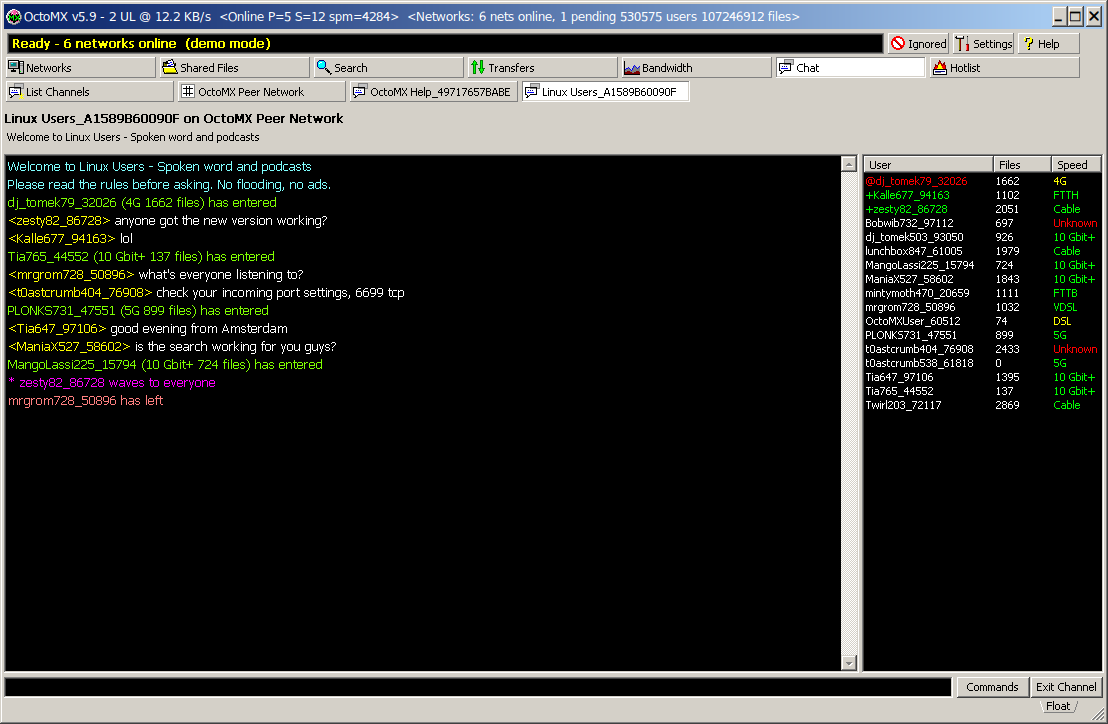
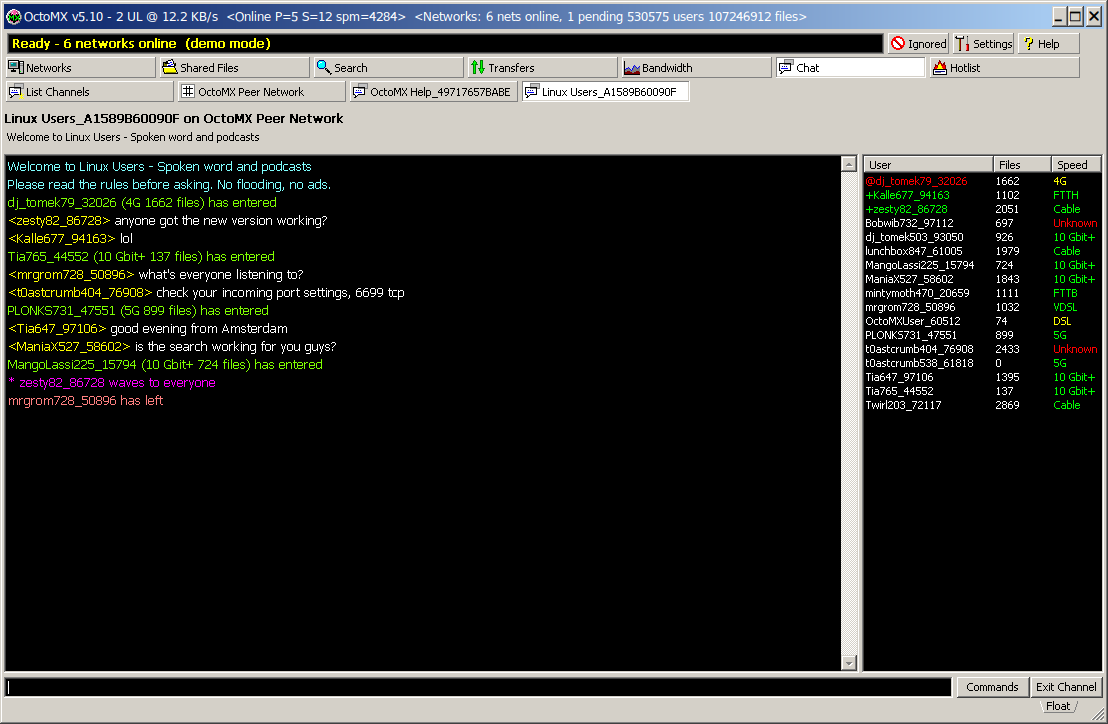
OctoMX 5.10: version and README pictures

Changed region(s): [[0.0614, 0.0, 0.7365, 0.0304]]

diff --git a/src/ui/update_ui.h b/src/ui/update_ui.h
@@ -7,9 +7,9 @@
 // at most once a day unless updates/mode is "off", stays quiet unless a newer version that was not
 // skipped exists, and logs one line otherwise. What a newer release does depends on updates/mode:
 //   auto   (default) download it quietly, check the signature, unpack and check it next to the
-//          program, then the box "OctoMX 5.10 is ready to install" with Restart Now / Later / Skip
+//          program, then the box "OctoMX 5.11 is ready to install" with Restart Now / Later / Skip
 //          This Version (Later: installed when OctoMX is closed, a tray balloon says so once)
-//   ask    the box "OctoMX 5.10 is available" with Update Now (progress bar, then the same restart
+//   ask    the box "OctoMX 5.11 is available" with Update Now (progress bar, then the same restart
 //          question) / Remind Me Later / Skip This Version and the download page as a link
 //   notify the classic message box: Open Download Page / Remind Me Later / Skip This Version
 //   off    no check at start; Help ▸ Check for Updates... still asks
@@ -19,7 +19,7 @@
 // The install itself runs when OctoMX closes (finishOnExit(), called by main.cpp after the core has
 // shut down); after Restart Now the new version is started with the same options. At the next start
 // startupRecovery() finishes or undoes an interrupted swap and removes the old files; the first
-// start after an update shows "Updated to OctoMX 5.10" with a What's New link.
+// start after an update shows "Updated to OctoMX 5.11" with a What's New link.
 //
 // Network policy (tests and scripted runs never contact GitHub): the app sets On for a real core with
 // a user profile, IfUrlSet for a test or scripted run (MX_OS_ROOT is set), Off for
@@ -63,8 +63,8 @@ public:
     enum class State { Idle, Checking, Downloading, Preparing, Ready };
     struct Offer {
         Kind kind = Kind::Notify;
-        QString version;   // "5.10"
-        QString current;   // "5.9"
+        QString version;   // "5.11"
+        QString current;   // "5.10"
         QString notes;     // plain text excerpt
         QString pageUrl;   // what Open Download Page / What's New opens
         QString reason;    // why there is no automatic install (Notify), empty otherwise
@@ -88,11 +88,11 @@ public:
     bool startCheckDue() const;
     void scheduleStartCheck(int delayMs = -1);
     bool isChecking() const;
-    QString currentVersion() const;   // MX_VERSION_FULL, e.g. "5.9.0"
+    QString currentVersion() const;   // MX_VERSION_FULL, e.g. "5.10.0"
     QString mode() const;             // updates/mode: auto | ask | notify | off
     State state() const { return m_state; }
     QString readyVersion() const;     // the prepared update (State::Ready)
-    // one line for the About box: "OctoMX 5.9 is up to date" / "OctoMX 5.10 is available" / ...
+    // one line for the About box: "OctoMX 5.10 is up to date" / "OctoMX 5.11 is available" / ...
     QString statusLine() const;
 
     // show what a check with this answer would show (manual = the answers of Help ▸ Check for

diff --git a/src/ui/dialogs/about_dialog.cpp b/src/ui/dialogs/about_dialog.cpp
@@ -46,7 +46,7 @@ AboutDialog::AboutDialog(mx::Core *core, QWidget *parent) : QDialog(parent)
                            core->isMock() ? tr("\nDemo mode: no network connections are made.") : QString()));
     info->setObjectName(QStringLiteral("aboutText"));
     info->setGeometry(SR(56, 30, 450, 106));
-    // [upd-1] what the update check found, right of the title: "OctoMX 5.9 is up to date." / "... 5.10 is available ..."
+    // [upd-1] what the update check found, right of the title: "OctoMX 5.10 is up to date." / "... 5.11 is available ..."
     if (UpdateController *u = UpdateController::of(qobject_cast<MainWindow *>(parent))) {
         auto *upd = new QLabel(u->statusLine(), this);
         upd->setObjectName(QStringLiteral("aboutUpdateStatus"));

diff --git a/src/api/mx/types.h b/src/api/mx/types.h
@@ -16,10 +16,10 @@
 // [post-1] defined by the top-level CMakeLists.txt from project(OctoMX VERSION ...); these
 // fallbacks only serve a build without it
 #ifndef MX_VERSION_FULL
-#define MX_VERSION_FULL "5.9.0"
+#define MX_VERSION_FULL "5.10.0"
 #endif
 #ifndef MX_VERSION_STRING
-#define MX_VERSION_STRING "5.9"
+#define MX_VERSION_STRING "5.10"
 #endif
 
 namespace mx {

diff --git a/docs/UI_SPEC.md b/docs/UI_SPEC.md
@@ -1490,7 +1490,7 @@ Fidelity checks must treat these as intentional (the classic forms stay reachabl
   "Load Standard ... Defaults" buttons choose the theme and reset every colour.
 * **Help button** [post-1]: a click pops a small menu `About OctoMX...` (bold default) / `Check for
   Updates...` (F1 still opens About directly); the About box has `Check for Updates...` left of OK.
-  The update box is a classic message box titled `OctoMX`: "OctoMX 5.10 is available (you have 5.9)."
+  The update box is a classic message box titled `OctoMX`: "OctoMX 5.11 is available (you have 5.10)."
   with the first lines of the release notes as plain text and `Open Download Page` / `Remind Me Later`
   / `Skip This Version`. Settings ▸ Miscellaneous ▸ System Integration has an `Updates` group with
   "Check for a new version at start (at most once a day)" (updates/checkAtStart, default on).
@@ -1502,19 +1502,19 @@ Fidelity checks must treat these as intentional (the classic forms stay reachabl
   downloading a new version` (ask) / `Only tell me, I install it myself` (notify, the classic box) / `Do
   not check at start` (off). A profile with the earlier check box off gets `off` (migrated once).
   auto: the start check downloads a newer signed release quietly, then a small box titled `OctoMX`
-  (information icon, plain text) says "OctoMX 5.10 is ready to install (you have 5.9)." with the
+  (information icon, plain text) says "OctoMX 5.11 is ready to install (you have 5.10)." with the
   first lines of the release notes, "The download was checked against the OctoMX release
   signature.", with running downloads "Your 3 running downloads continue after the restart.", and
   `Restart Now` (default) / `Later` / `Skip This Version`; Later (also Escape or the close button)
   installs it when OctoMX is closed and a tray balloon says so once. ask, and always for Help ▸ Check
-  for Updates...: "OctoMX 5.10 is available (you have 5.9)." with `Update Now` (a box with a progress
+  for Updates...: "OctoMX 5.11 is available (you have 5.10)." with `Update Now` (a box with a progress
   bar, `Hide` / `Cancel`, then the ready box) / `Remind Me Later` / `Skip This Version` and `Open
   Download Page` as a link below the text. When the program cannot install a release itself (not a
   published package, a folder it cannot write, a release without signature, a download or check that
   failed), the classic box appears with the reason above the last line. The first start after an update
-  shows "Updated to OctoMX 5.10 (from 5.9)." with `What's New` (the release page) / `OK`. The About
-  box has one line under the description: "OctoMX 5.9 is up to date." / "OctoMX 5.10 is available
-  (you have 5.9)." / "... is ready to install ..." / "..., not checked for updates yet.".
+  shows "Updated to OctoMX 5.11 (from 5.10)." with `What's New` (the release page) / `OK`. The About
+  box has one line under the description: "OctoMX 5.10 is up to date." / "OctoMX 5.11 is available
+  (you have 5.10)." / "... is ready to install ..." / "..., not checked for updates yet.".
   Deviations: these boxes are not part of WinMX 3.53 (it had no updater); they are drawn as classic
   message boxes with our own buttons. Deliberate choices: the staging folder is inside the program
   folder (`.new-<version>`, same volume, only the program folder must be writable) instead of next
@@ -1727,7 +1727,7 @@ Fidelity checks must treat these as intentional (the classic forms stay reachabl
   BitTorrent piece hashes)`. With the setting `search/mergeByNameAndSize` off (default on), only plain
   files with equal normalised names merge (a bundle never meets a non-bundle).
 * **The name OctoMX** [ren-1] (owner: "as a name I choose OctoMX"; "OctoMX is the only version and
-  name we use"): every place where the program names itself says OctoMX (title `OctoMX v5.9`,
+  name we use"): every place where the program names itself says OctoMX (title `OctoMX v5.10`,
   `About OctoMX...`, `Exit OctoMX`, message box titles, the `OctoMX Peer Network` tabs and pages, the
   network name `OctoMX` in the Network columns, the default room `OctoMX Lobby`). Where it describes
   itself it says that its interface is in the style of the classic WinMX, with the statement that it

diff --git a/README.md b/README.md
@@ -42,7 +42,7 @@ responsibility; the authors are not responsible for the content exchanged with i
 start the program asks you to accept these terms before it connects to any network. See
 [Legal](#legal).
 
-Version 5.9 for Windows 10/11 (64-bit), Linux (x86_64) and macOS 14.4 or newer. Project page:
+Version 5.10 for Windows 10/11 (64-bit), Linux (x86_64) and macOS 14.4 or newer. Project page:
 https://github.com/robtacconelli/OctoMX
 
 > **Licence:** OctoMX is free software under the **GNU General Public License v3.0 or later**
@@ -94,9 +94,9 @@ built-in demo data:
 
 | | |
 |---|---|
-| **Windows** | Unzip `OctoMX-5.9-win64.zip` anywhere and double-click `octomx.exe`. Nothing is installed. Windows Firewall may ask whether OctoMX may accept connections. |
-| **Linux** | `tar xf OctoMX-5.9-linux-x86_64.tar.xz` and run `OctoMX-5.9-linux-x86_64/octomx`. Qt does not need to be installed. Run `./install-desktop-entry.sh` once for a menu entry and icon. |
-| **macOS** | Unzip `OctoMX-5.9-macos-universal.zip` (one app for Apple Silicon and Intel Macs, macOS 14.4 or newer) and drag `OctoMX.app` into Applications. The first time, right-click `OctoMX.app` and choose **Open**, then **Open** again (on macOS 15: System Settings > Privacy & Security > **Open Anyway**): the app has no Apple Developer ID signature. `README-mac.txt` in the archive has the details. |
+| **Windows** | Unzip `OctoMX-5.10-win64.zip` anywhere and double-click `octomx.exe`. Nothing is installed. Windows Firewall may ask whether OctoMX may accept connections. |
+| **Linux** | `tar xf OctoMX-5.10-linux-x86_64.tar.xz` and run `OctoMX-5.10-linux-x86_64/octomx`. Qt does not need to be installed. Run `./install-desktop-entry.sh` once for a menu entry and icon. |
+| **macOS** | Unzip `OctoMX-5.10-macos-universal.zip` (one app for Apple Silicon and Intel Macs, macOS 14.4 or newer) and drag `OctoMX.app` into Applications. The first time, right-click `OctoMX.app` and choose **Open**, then **Open** again (on macOS 15: System Settings > Privacy & Security > **Open Anyway**): the app has no Apple Developer ID signature. `README-mac.txt` in the archive has the details. |
 
 `SHA256SUMS` next to the archives has their checksums.
 

diff --git a/docs/API.md b/docs/API.md
@@ -115,7 +115,7 @@ Every answer is JSON. An error has a code and a sentence a person can read:
         ],
         "searches": 0,
         "streams": 0,
-        "version": "5.9"
+        "version": "5.10"
     }
 
 After 5.9 the status also has `downloads` (how many downloads the list holds, per [state
@@ -965,7 +965,7 @@ The finished downloads (completed, seeding, cancelled) leave the list; their fil
             },
             ...
         ],
-        "version": "5.9",
+        "version": "5.10",
         ...
     }
 
